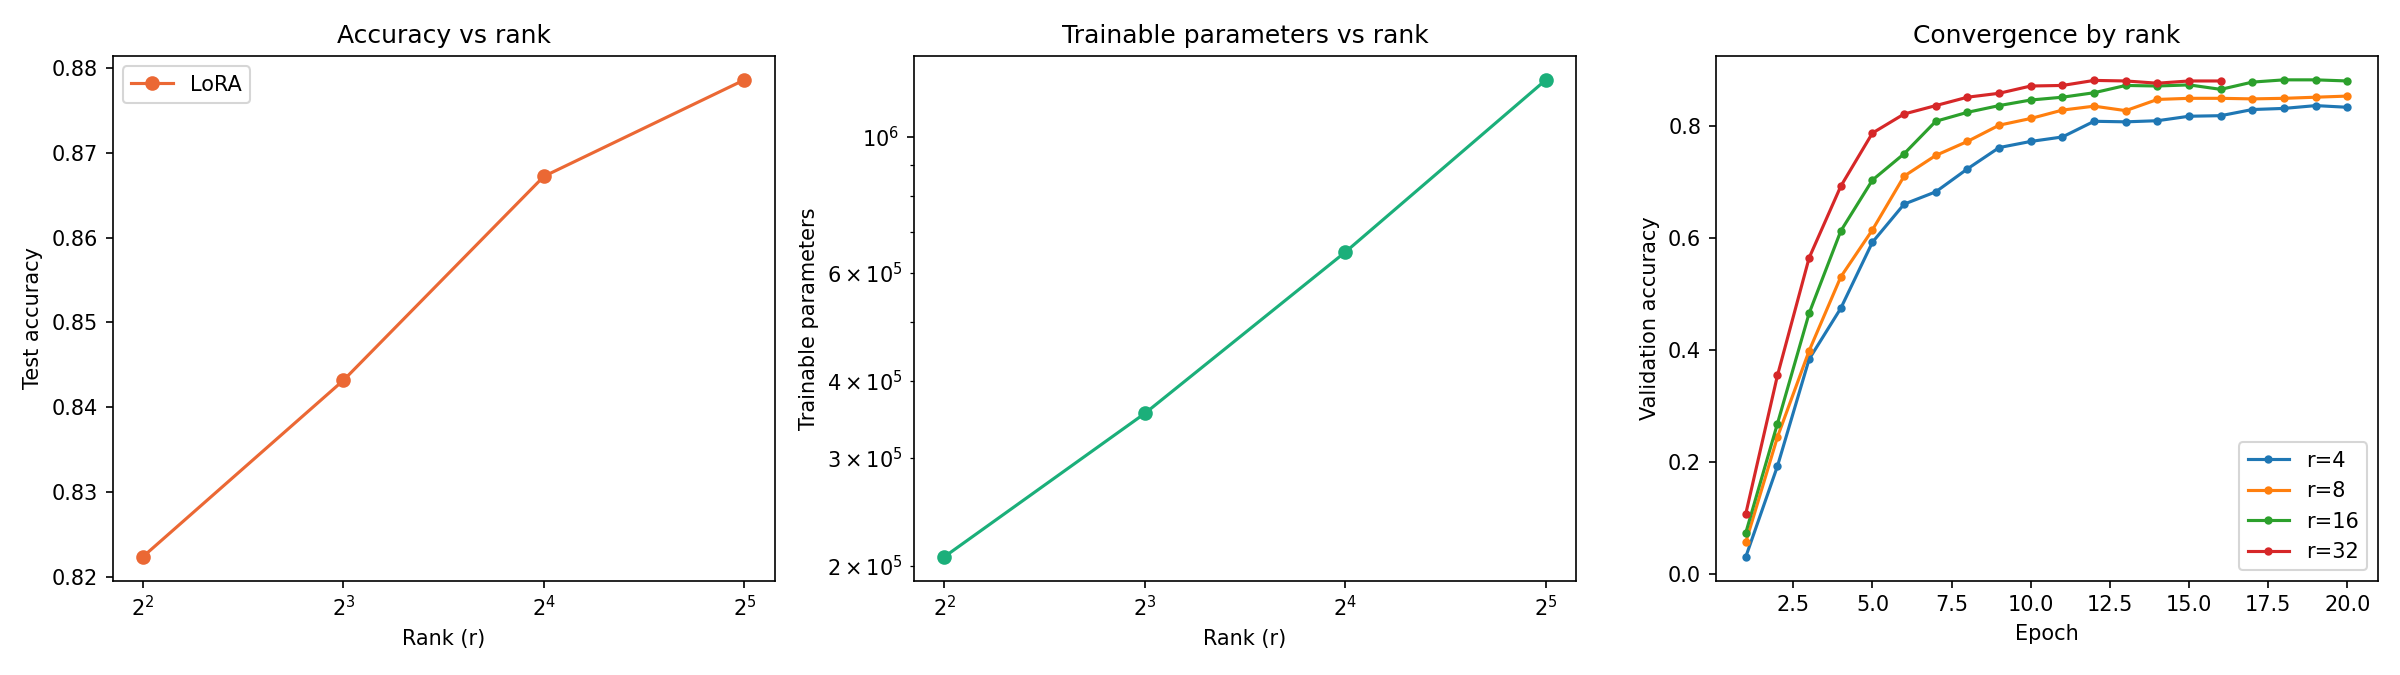
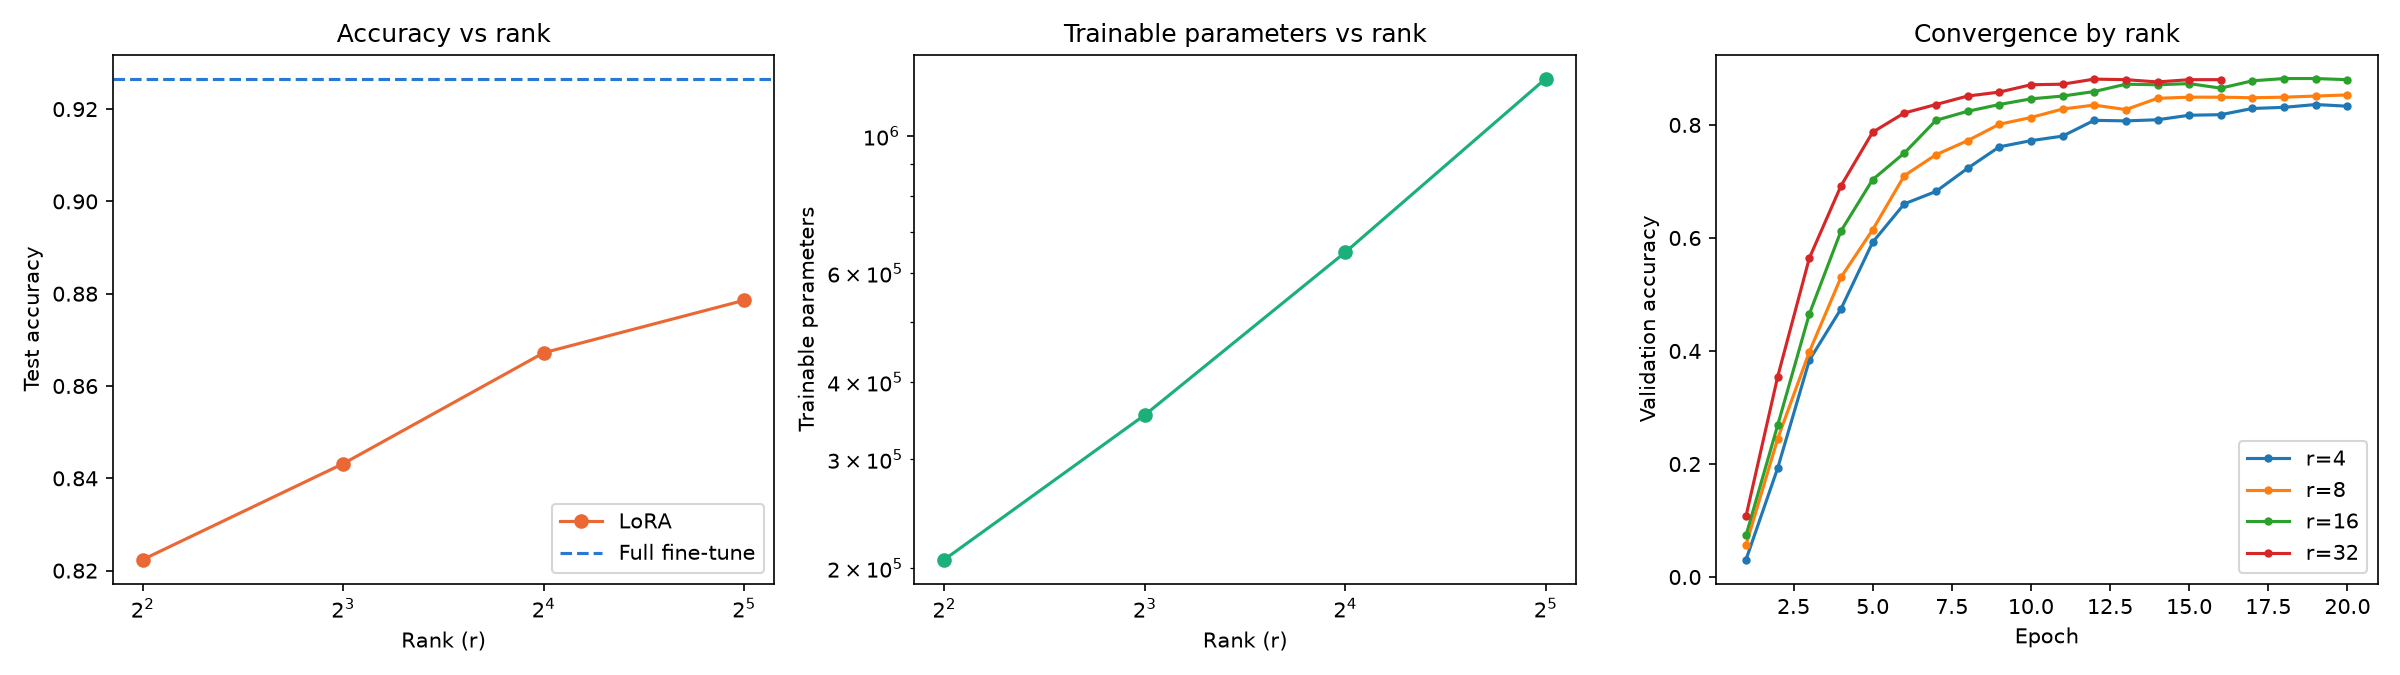
Write up the rank sweep as two runs, not one result
The README's rank-sweep section was still the "not been run yet" placeholder
with four empty rows, although the numbers have been in results/ since the
20-epoch run landed. It now carries both runs, in the order they happened.

Run 1 (four epochs) is reported rather than dropped, because the reason its
ranking was discarded is itself the finding: the curve never flattened and
validation accuracy was still rising at the final epoch for every rank, so the
budget was binding, not the rank. At a short budget the two are confounded, a
larger adapter absorbing a fixed number of steps faster. Run 2 removes the
confound by training each rank to its own ceiling.

The pairing makes the point sharper than either run alone: holding rank fixed
and changing only the budget moved r=8 from 44.8% to 84.3%, and r=4 at 20
epochs beats r=32 at 4 epochs by 20.9 points using 6x fewer parameters.

Also carried over from the side branches:
- results/02_rank_sweep_4ep.{csv,json,png}, so the first run is reproducible
  from the repo rather than only from a branch.
- The 02_rank_sweep.png that includes the full fine-tune reference line. The
  copy written by the run omitted it: the notebook reads the baseline accuracy
  from results/01_baseline_comparison.json, which does not exist in a fresh
  Kaggle container, so it silently plotted without the line.

The 4-epoch figure was regenerated. Its earlier version drew the reference line
[…]

diff --git a/README.md b/README.md
@@ -19,7 +19,9 @@ citing it: same model, same data, same protocol, both methods, real numbers.
 
 ## Results
 
-**Full fine-tune vs. LoRA (r=8)** — from `notebooks/01_baseline_full_finetune_vs_lora.ipynb`:
+### Stage 1 — full fine-tuning vs. LoRA at r=8
+
+From `notebooks/01_baseline_full_finetune_vs_lora.ipynb`:
 
 | Method | Trainable params | % of total | Accuracy | Macro F1 | Epochs | Train time | Peak GPU mem |
 |---|---|---|---|---|---|---|---|
@@ -44,16 +46,95 @@ essentially flat from epoch 5 onward. LoRA is still improving at epoch 20, where
 so **85.4% is a lower bound, not a converged value**, and some unknown fraction of that 7.3-point gap is
 training budget rather than a limit of the method.
 
-**LoRA rank sweep (r = 4, 8, 16, 32)** — from `notebooks/02_lora_rank_sweep.ipynb`:
+## Rank sweep: how much LoRA capacity is actually needed?
 
-*Pending — this notebook has not been run yet. The table and the diminishing-returns figure go here.*
+Notebook 01 measures LoRA at a single rank, `r=8`. The sweep in `notebooks/02_lora_rank_sweep.ipynb`
+turns that one point into a curve. It took two runs to get a curve worth reading, and the first run is
+part of the result rather than something we discarded quietly.
+
+### Run 1 — four epochs, and why we did not report its ranking
+
+The first sweep gave every rank four epochs, matching the budget notebook 01 originally used.
+
+| Rank | Trainable params | Accuracy |
+|---|---|---|
+| 4 | 206,669 | 30.8% |
+| 8 | 354,125 | 44.8% |
+| 16 | 649,037 | 54.5% |
+| 32 | 1,238,861 | 61.4% |
+
+![First sweep, four epochs](results/02_rank_sweep_4ep.png)
+
+Read at face value this says "rank matters enormously, keep increasing it." Two features of the data
+said we were measuring the wrong variable:
+
+1. **The curve never flattens.** It is still climbing steeply at `r=32`, 31 points below full
+   fine-tuning's 92.7%. A capacity ceiling shows up as a curve bending over. This one does not bend.
+2. **Validation accuracy was still rising at the final epoch for every rank.** None of the models had
+   finished learning with the parameters they already had.
+
+Both symptoms point at the training budget, not at rank. At a short fixed budget the two are
+confounded: a larger adapter absorbs a fixed number of steps faster, so higher rank looks better for a
+reason that has nothing to do with capacity.
+
+The fix was therefore to remove the confound — train each rank to *its own* ceiling — not to keep
+adding rank.
+
+### Run 2 — twenty epochs with early stopping
+
+Same ranks, same learning rate, same target modules. The only change is the budget: 20 epochs with
+early stopping on validation accuracy, so each rank stops when it stops improving.
 
 | Rank | Alpha | Trainable params | Accuracy | Macro F1 | Epochs | Train time |
 |---|---|---|---|---|---|---|
-| 4 | 8 | | | | | |
-| 8 | 16 | | | | | |
-| 16 | 32 | | | | | |
-| 32 | 64 | | | | | |
+| 4 | 8 | 206,669 | 82.2% | 0.819 | 20 | 1,227s |
+| 8 | 16 | 354,125 | 84.3% | 0.841 | 20 | 1,223s |
+| 16 | 32 | 649,037 | 86.7% | 0.867 | 20 | 1,230s |
+| 32 | 64 | 1,238,861 | 87.9% | 0.879 | 16 | 983s |
+
+![Rank sweep](results/02_rank_sweep.png)
+
+### What the two runs prove together
+
+Holding rank fixed and changing only the budget moved `r=8` from 44.8% to 84.3% — **39.5 points from
+training time alone**. The decisive comparison is this one:
+
+| Configuration | Trainable params | Accuracy |
+|---|---|---|
+| `r=32`, 4 epochs | 1,238,861 | 61.4% |
+| `r=4`, 20 epochs | 206,669 | **82.2%** |
+
+The smallest adapter trained properly beats the largest adapter trained briefly by **20.9 points using
+6× fewer parameters**. Rank cannot substitute for training budget, which is why run 1's ranking was a
+statement about convergence speed rather than about capacity.
+
+### The finding
+
+With every rank trained toward its ceiling, the diminishing return is visible — and it is in
+*efficiency*, not in raw accuracy:
+
+| Step | Accuracy gained | Parameters added | Points per 100k params |
+|---|---|---|---|
+| `r=4` → `r=8` | +2.08 | 147,456 | 1.41 |
+| `r=8` → `r=16` | +2.40 | 294,912 | 0.81 |
+| `r=16` → `r=32` | +1.14 | 589,824 | 0.19 |
+
+Every doubling still buys accuracy, but the yield per added parameter falls roughly 7× across the
+sweep. At `r=32`, LoRA reaches **94.8% of full fine-tuning's accuracy while training 1.13% of the
+parameters**.
+
+**Three caveats before citing that table:**
+
+- **Only `r=32` converged.** It early-stopped at epoch 16 with its best checkpoint at epoch 12. `r=4`,
+  `r=8` and `r=16` all hit the 20-epoch ceiling with validation accuracy still rising, so those three
+  are lower bounds. The efficiency decline is partly confounded by this: the lower ranks remain
+  budget-limited, not only capacity-limited.
+- **The run-to-run noise floor is about one point.** Notebook 01 and this sweep both trained `r=8` with
+  identical settings for 5,640 steps and produced 85.4% and 84.3% — 1.04 points apart from classifier
+  head initialisation alone. The `r=16` → `r=32` gain of 1.14 points sits barely above that, so `r=32`
+  leading `r=16` is suggestive, not established.
+- **Peak memory does not separate the ranks** — 1,304 MB to 1,325 MB across a 6× parameter range. It is
+  dominated by the frozen base model and the activations, not by the adapters.
 
 ### Results dashboard
 
